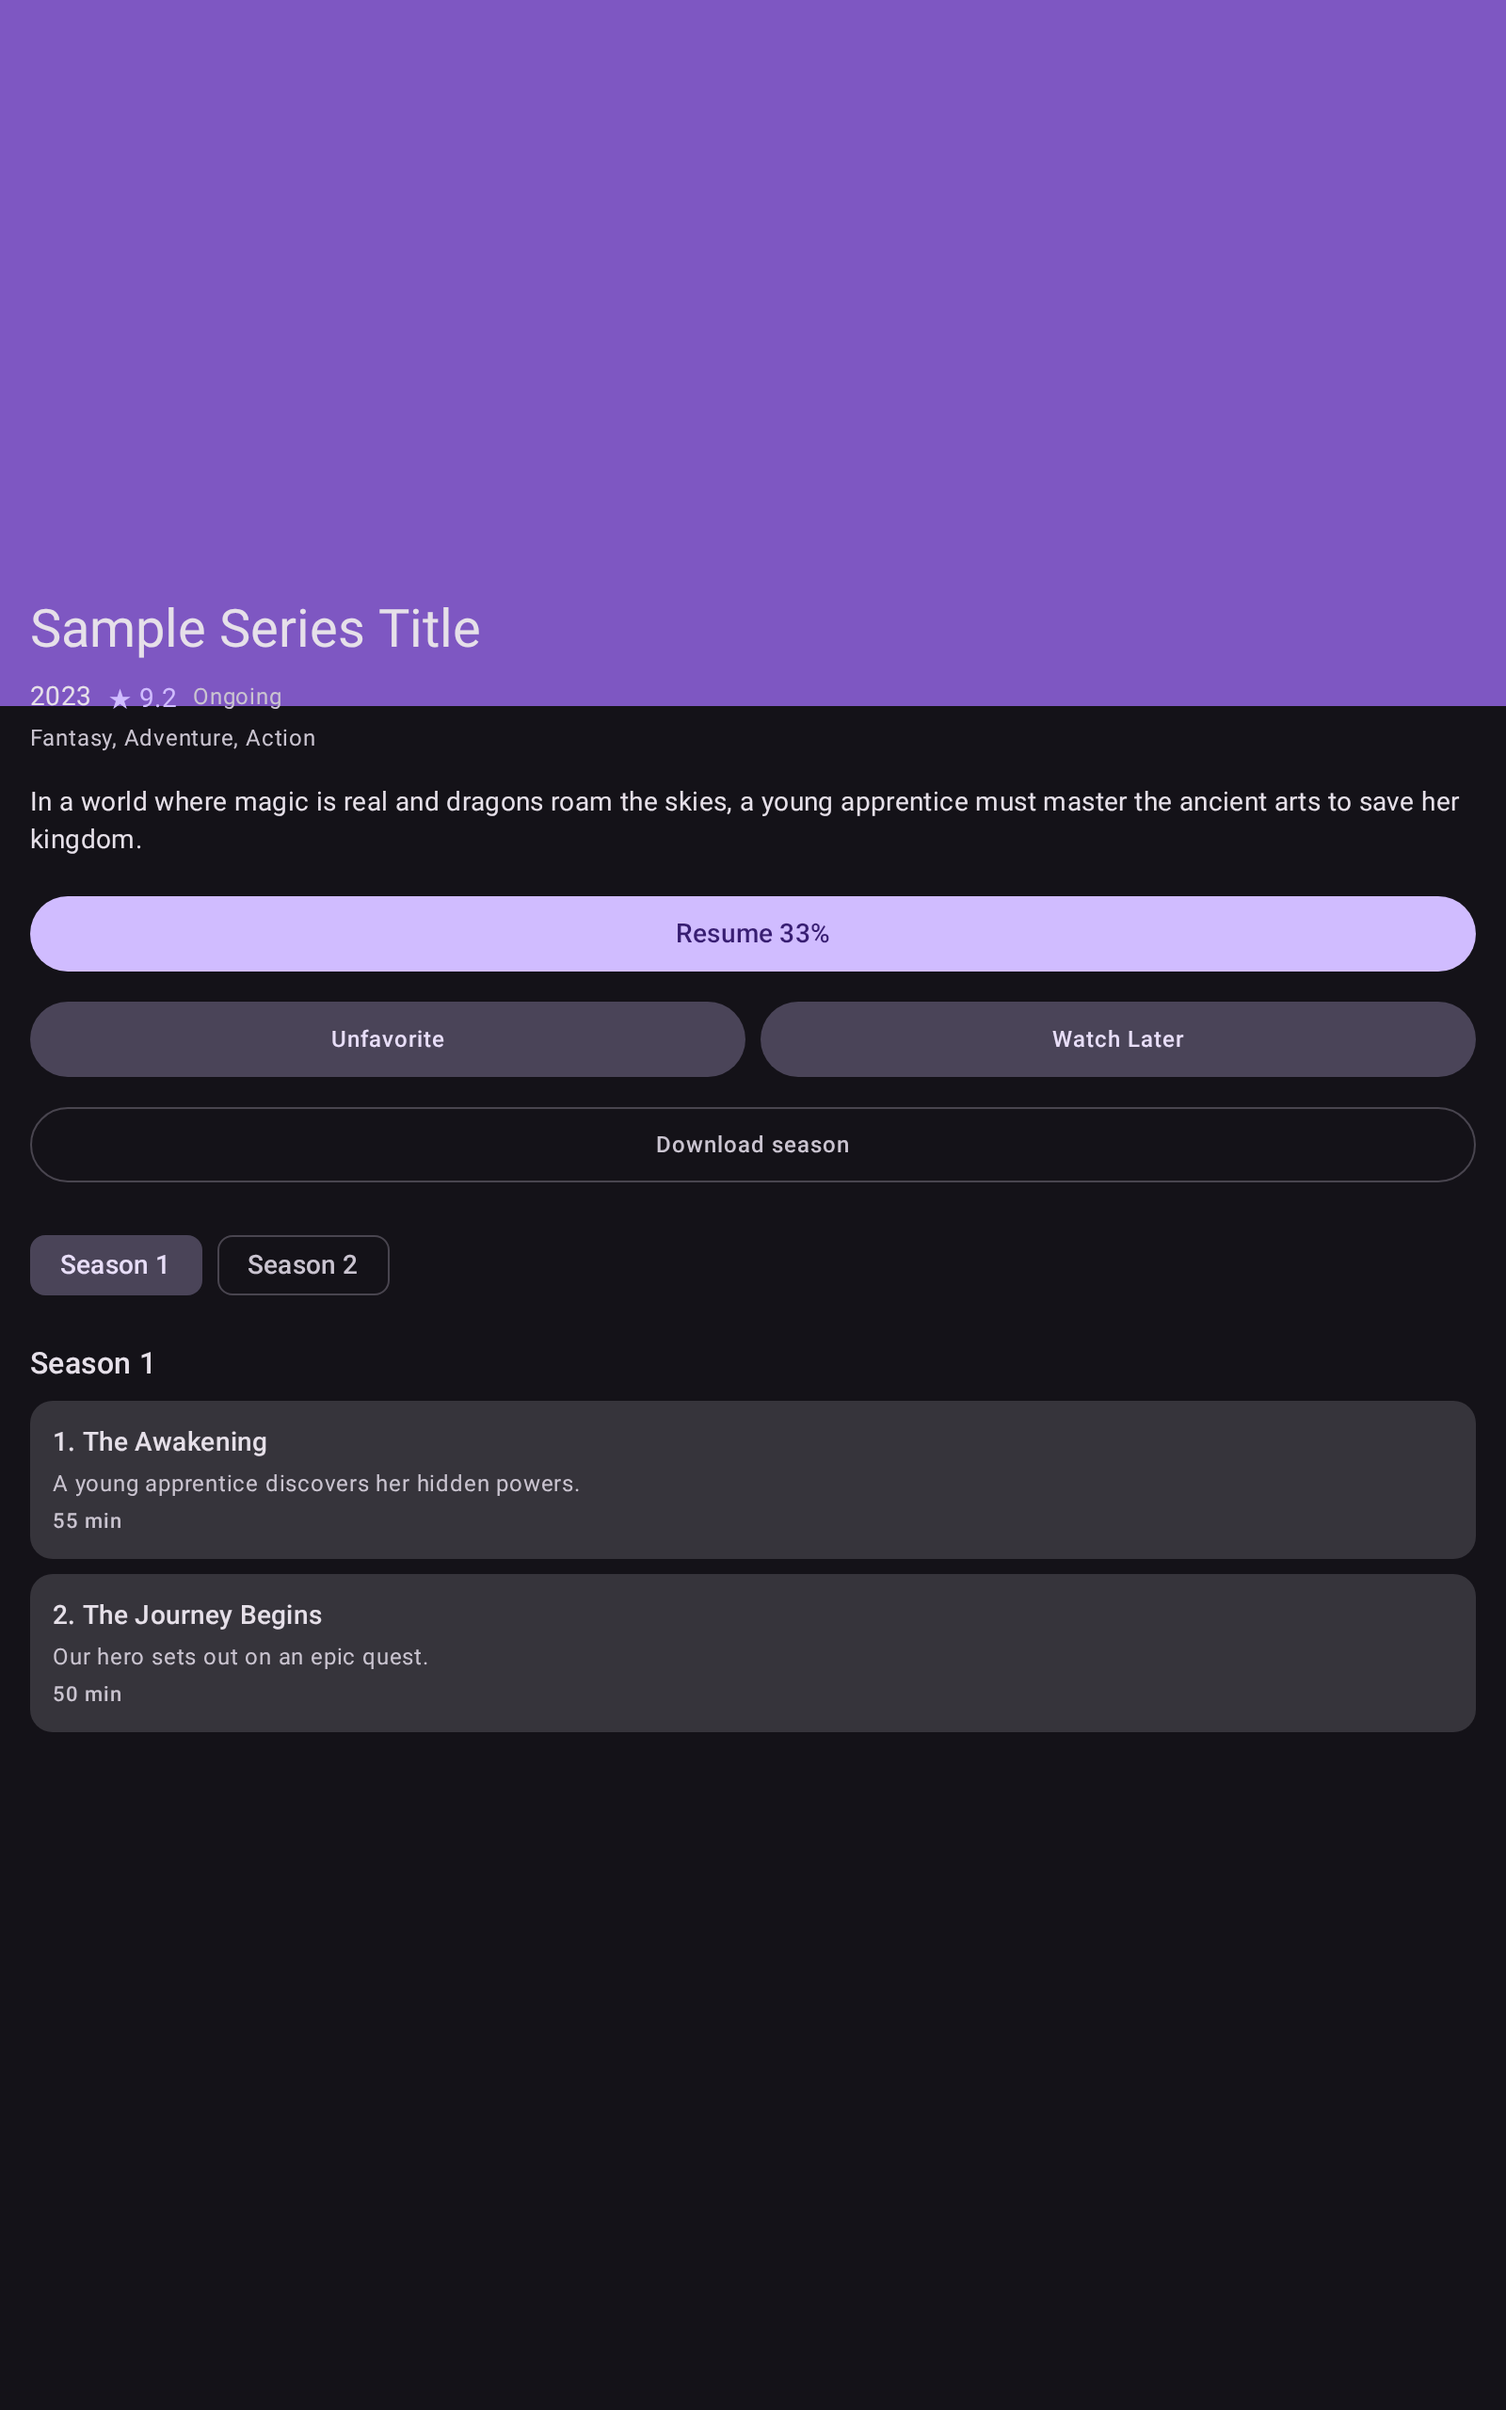
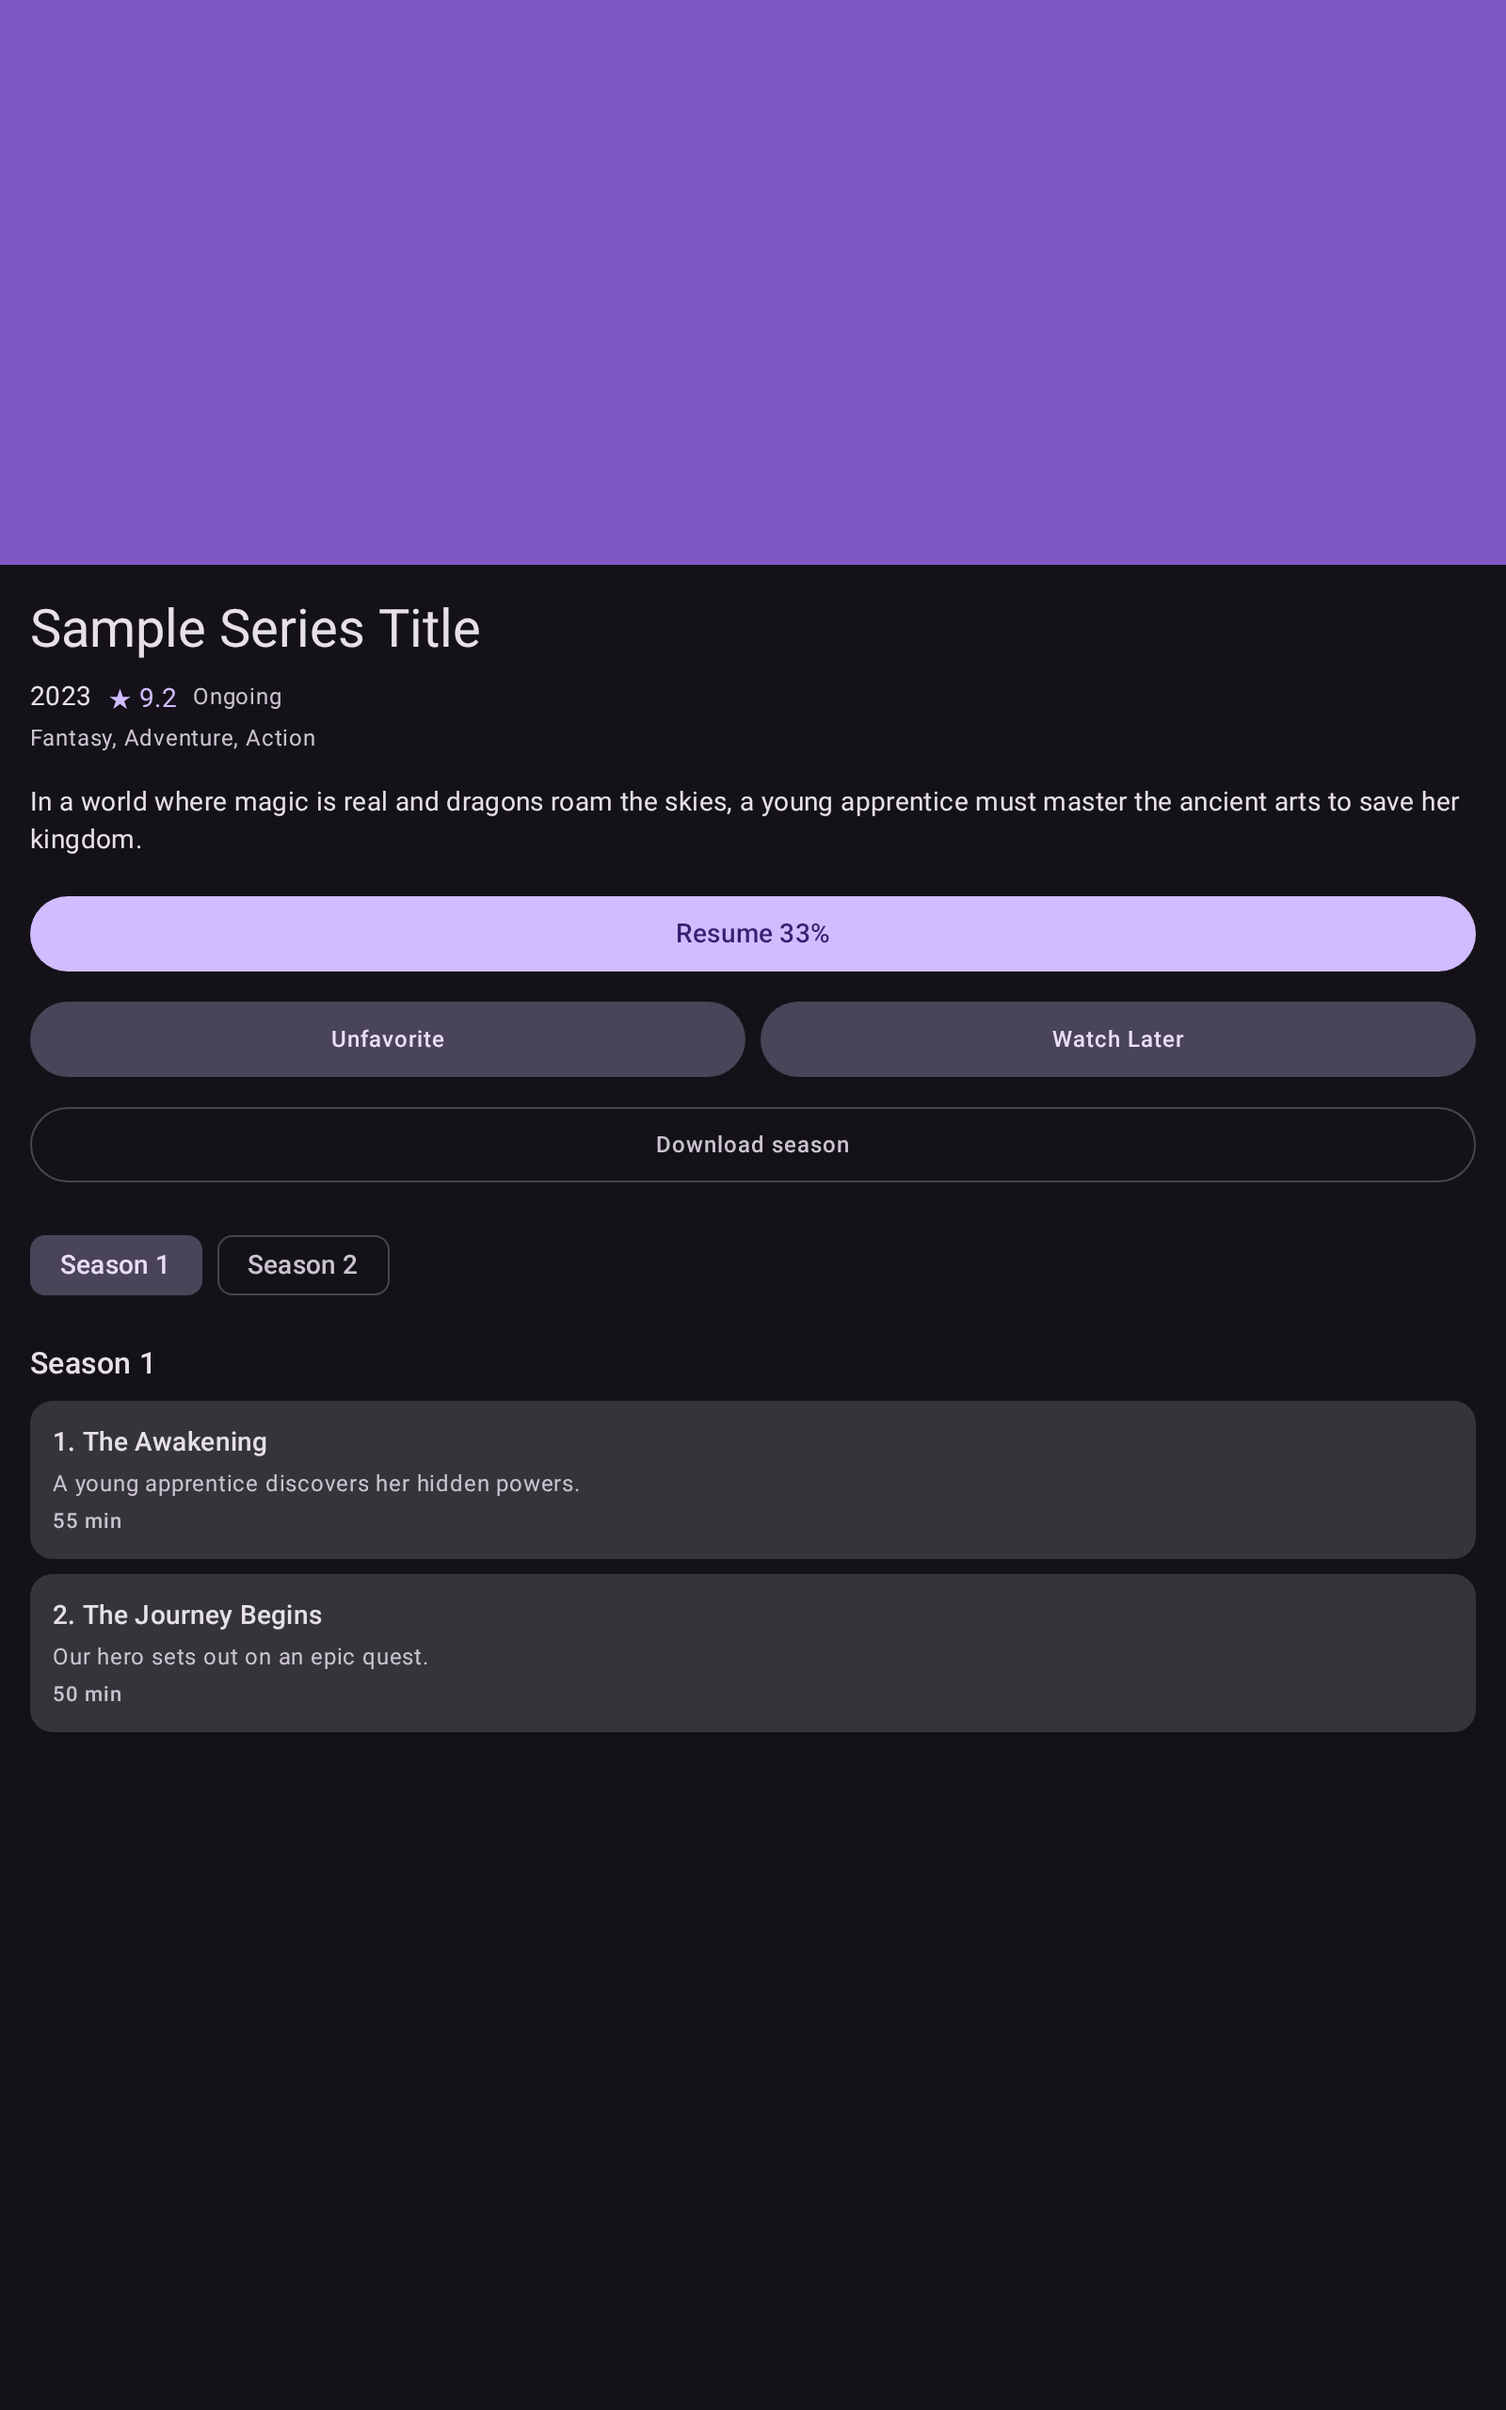
fix: keep the detail backdrop inside its layout slot (#400)
* fix: keep the detail backdrop inside its layout slot

The compact detail hero used fillMaxWidth().heightIn(max=300.dp).aspectRatio(16/9). On screens wider than ~533dp the aspect-ratio node wins over the height cap: the hero drew 375dp tall while its parent slot was 300dp, so the backdrop covered the title and clipped the metadata row (visible on the tablet goldens for both movie and series).

Extracts the shared compact hero into DetailHero, computes its height explicitly (16:9 until 300dp) and clips it, so cropped artwork cannot draw over the content below. Adds a unit test for the height rule.

The tablet screenshot goldens change; the Screenshots workflow update mode will regenerate them on this branch.

* chore: regenerate golden images and README screenshots

---------

Changed region(s): [[0.0, 0.2188, 1.0, 0.3125]]

diff --git a/feature/details/src/commonMain/kotlin/net/subsloth/details/DetailLayout.kt b/feature/details/src/commonMain/kotlin/net/subsloth/details/DetailLayout.kt
@@ -2,11 +2,26 @@
 
 package net.subsloth.details
 
+import androidx.compose.foundation.background
+import androidx.compose.foundation.layout.Box
+import androidx.compose.foundation.layout.BoxWithConstraints
+import androidx.compose.foundation.layout.fillMaxWidth
 import androidx.compose.foundation.layout.height
-import androidx.compose.foundation.layout.width
+import androidx.compose.material3.MaterialTheme
+import androidx.compose.material3.Text
 import androidx.compose.runtime.Composable
+import androidx.compose.ui.Alignment
+import androidx.compose.ui.Modifier
+import androidx.compose.ui.draw.clipToBounds
+import androidx.compose.ui.graphics.Brush
+import androidx.compose.ui.graphics.Color
 import androidx.compose.ui.platform.LocalDensity
 import androidx.compose.ui.platform.LocalWindowInfo
+import androidx.compose.ui.semantics.contentDescription
+import androidx.compose.ui.semantics.semantics
+import androidx.compose.ui.unit.Dp
+import androidx.compose.ui.unit.dp
+import net.subsloth.core.ui.MediaArtwork
 
 @Composable
 internal fun isLandscapeWideScreen(): Boolean {
@@ -15,4 +30,59 @@ internal fun isLandscapeWideScreen(): Boolean {
     val widthDp = with(density) { containerSize.width.toDp().value }
     val heightDp = with(density) { containerSize.height.toDp().value }
     return widthDp > heightDp && widthDp >= 800f
+}
+
+/** Maximum height of the compact-layout backdrop. */
+internal val DETAIL_HERO_MAX_HEIGHT = 300.dp
+
+/**
+ * Backdrop height for a [width]-wide hero: 16:9 until [DETAIL_HERO_MAX_HEIGHT]
+ * caps it.
+ *
+ * Computed explicitly because `heightIn(...).aspectRatio(...)` lays the hero
+ * out taller than its layout slot on wide screens (the aspect-ratio node wins
+ * over the height cap), which makes the backdrop overlap the content below.
+ */
+internal fun detailHeroHeight(width: Dp): Dp = minOf(width * 9f / 16f, DETAIL_HERO_MAX_HEIGHT)
+
+/**
+ * The compact-layout backdrop: the title initial over a gradient, with the
+ * backdrop artwork on top. Clipped to its computed height so the cropped
+ * artwork cannot draw over the content below.
+ */
+@Composable
+internal fun DetailHero(
+    title: String,
+    artworkUrl: String?,
+    posterContentDescription: String,
+    containerColor: Color,
+    onContainerColor: Color,
+    modifier: Modifier = Modifier,
+) {
+    BoxWithConstraints(modifier = modifier.fillMaxWidth()) {
+        Box(
+            modifier = Modifier
+                .fillMaxWidth()
+                .height(detailHeroHeight(maxWidth))
+                .clipToBounds()
+                .background(
+                    Brush.verticalGradient(
+                        colors = listOf(containerColor, MaterialTheme.colorScheme.surface),
+                    ),
+                )
+                .semantics { contentDescription = posterContentDescription },
+            contentAlignment = Alignment.Center,
+        ) {
+            Text(
+                text = title.take(1),
+                style = MaterialTheme.typography.displayLarge,
+                color = onContainerColor.copy(alpha = 0.3f),
+            )
+            MediaArtwork(
+                url = artworkUrl,
+                contentDescription = null,
+                modifier = Modifier.matchParentSize(),
+            )
+        }
+    }
 }

diff --git a/feature/details/src/commonMain/kotlin/net/subsloth/details/SeriesDetailScreen.kt b/feature/details/src/commonMain/kotlin/net/subsloth/details/SeriesDetailScreen.kt
@@ -342,33 +342,13 @@ private fun ShowDetailCompactLayout(
             .fillMaxSize()
             .verticalScroll(rememberScrollState()),
     ) {
-        Box(
-            modifier = Modifier
-                .fillMaxWidth()
-                .heightIn(max = 300.dp)
-                .aspectRatio(16f / 9f)
-                .background(
-                    Brush.verticalGradient(
-                        colors = listOf(
-                            MaterialTheme.colorScheme.tertiaryContainer,
-                            MaterialTheme.colorScheme.surface,
-                        ),
-                    ),
-                )
-                .semantics { contentDescription = posterContentDescription },
-            contentAlignment = Alignment.Center,
-        ) {
-            Text(
-                text = details.title.take(1),
-                style = MaterialTheme.typography.displayLarge,
-                color = MaterialTheme.colorScheme.onTertiaryContainer.copy(alpha = 0.3f),
-            )
-            MediaArtwork(
-                url = details.backdropUrl ?: details.posterUrl,
-                contentDescription = null,
-                modifier = Modifier.matchParentSize(),
-            )
-        }
+        DetailHero(
+            title = details.title,
+            artworkUrl = details.backdropUrl ?: details.posterUrl,
+            posterContentDescription = posterContentDescription,
+            containerColor = MaterialTheme.colorScheme.tertiaryContainer,
+            onContainerColor = MaterialTheme.colorScheme.onTertiaryContainer,
+        )
 
         Column(modifier = Modifier.padding(horizontal = tvSafeHorizontalPadding(16.dp), vertical = 16.dp)) {
             Text(

diff --git a/feature/details/src/commonMain/kotlin/net/subsloth/details/MovieDetailScreen.kt b/feature/details/src/commonMain/kotlin/net/subsloth/details/MovieDetailScreen.kt
@@ -310,33 +310,13 @@ private fun MovieDetailCompactLayout(
             .fillMaxSize()
             .verticalScroll(rememberScrollState()),
     ) {
-        Box(
-            modifier = Modifier
-                .fillMaxWidth()
-                .heightIn(max = 300.dp)
-                .aspectRatio(16f / 9f)
-                .background(
-                    Brush.verticalGradient(
-                        colors = listOf(
-                            MaterialTheme.colorScheme.primaryContainer,
-                            MaterialTheme.colorScheme.surface,
-                        ),
-                    ),
-                )
-                .semantics { contentDescription = posterContentDescription },
-            contentAlignment = Alignment.Center,
-        ) {
-            Text(
-                text = details.title.take(1),
-                style = MaterialTheme.typography.displayLarge,
-                color = MaterialTheme.colorScheme.onPrimaryContainer.copy(alpha = 0.3f),
-            )
-            MediaArtwork(
-                url = details.backdropUrl ?: details.posterUrl,
-                contentDescription = null,
-                modifier = Modifier.matchParentSize(),
-            )
-        }
+        DetailHero(
+            title = details.title,
+            artworkUrl = details.backdropUrl ?: details.posterUrl,
+            posterContentDescription = posterContentDescription,
+            containerColor = MaterialTheme.colorScheme.primaryContainer,
+            onContainerColor = MaterialTheme.colorScheme.onPrimaryContainer,
+        )
 
         Column(modifier = Modifier.padding(horizontal = tvSafeHorizontalPadding(16.dp), vertical = 16.dp)) {
             Text(

diff --git a/feature/details/src/jvmTest/kotlin/net/subsloth/details/DetailHeroHeightTest.kt b/feature/details/src/jvmTest/kotlin/net/subsloth/details/DetailHeroHeightTest.kt
@@ -1,0 +1,25 @@
+package net.subsloth.details
+
+import androidx.compose.ui.unit.dp
+import net.subsloth.testing.assertions.assertThat
+import org.junit.jupiter.api.Test
+
+class DetailHeroHeightTest {
+
+    @Test
+    fun `narrow screens keep the 16 by 9 ratio`() {
+        assertThat(detailHeroHeight(411.dp)).isEqualTo(411.dp * 9f / 16f)
+    }
+
+    @Test
+    fun `wide screens are capped`() {
+        assertThat(detailHeroHeight(800.dp)).isEqualTo(300.dp)
+        assertThat(detailHeroHeight(1200.dp)).isEqualTo(300.dp)
+    }
+
+    @Test
+    fun `the cap applies exactly where 16 by 9 exceeds it`() {
+        assertThat(detailHeroHeight(533.dp)).isEqualTo(533.dp * 9f / 16f)
+        assertThat(detailHeroHeight(534.dp)).isEqualTo(300.dp)
+    }
+}
